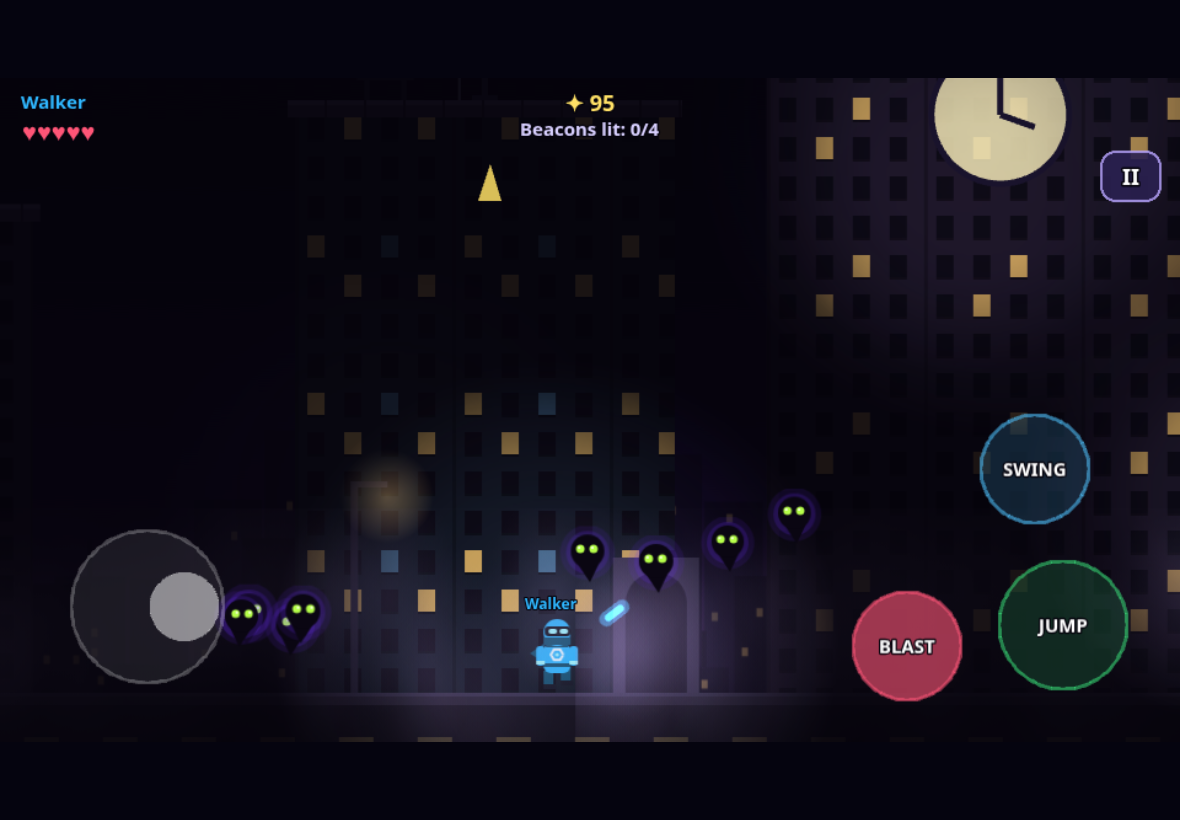
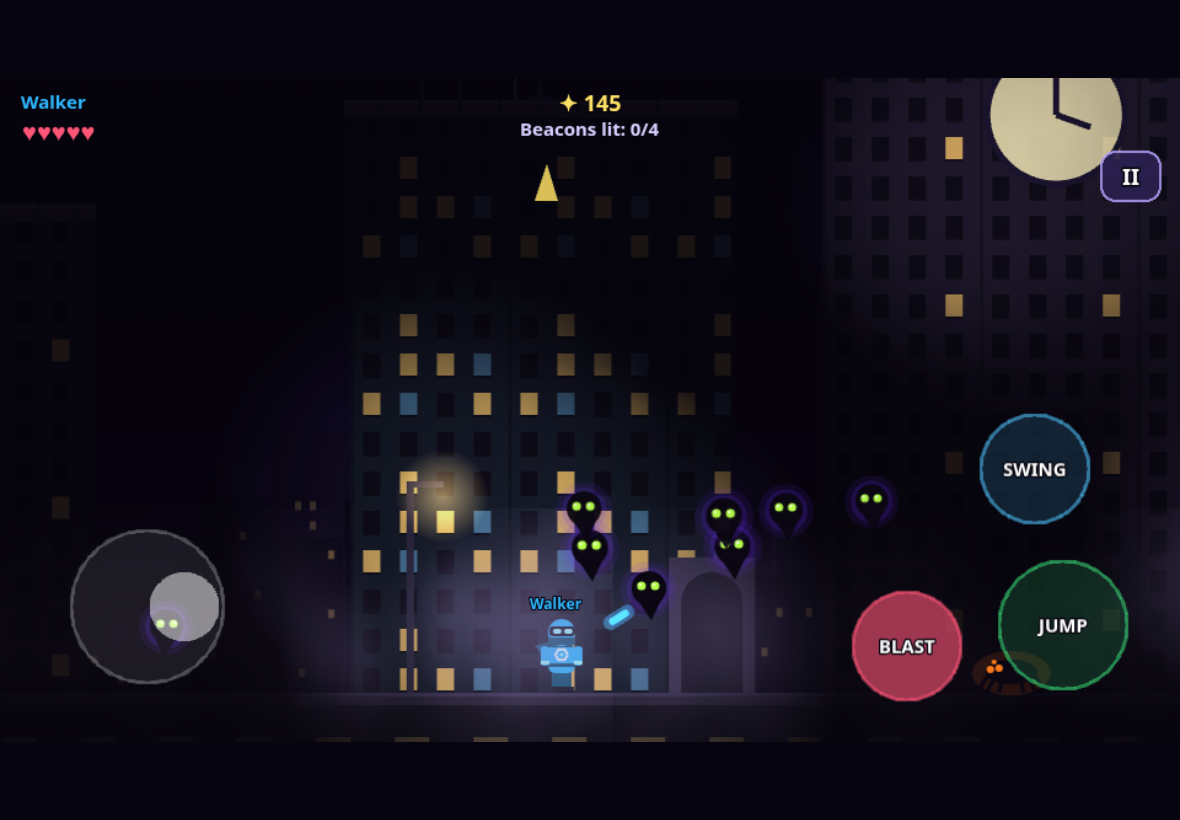
Add live URL, screenshots, vercelignore

diff --git a/README.md b/README.md
@@ -2,6 +2,8 @@
 
 A tablet-first co-op hero game set in a haunted city at night. Grandpa made it for the family.
 
+**Live:** https://night-patrol-brsa-registry.vercel.app
+
 **Play:** open the site on a tablet, turn it sideways, and tap **Share → Add to Home Screen** (iPad Safari) or **⋮ → Install app** (Android Chrome).
 
 ## Heroes
